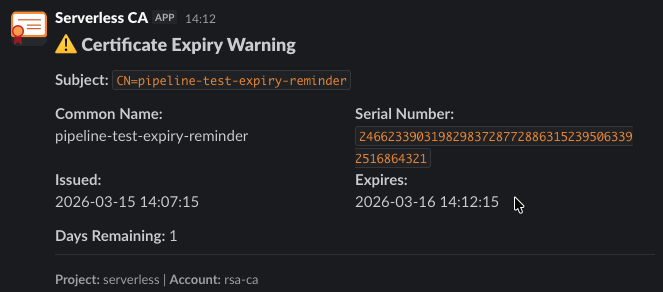
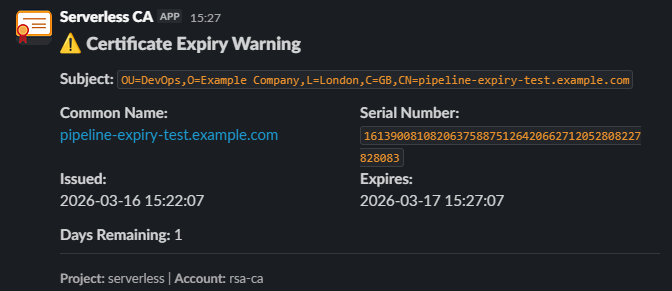
Updated dependencies and new Slack images (#556)

diff --git a/tests/test_expiry_reminders.py b/tests/test_expiry_reminders.py
@@ -27,7 +27,7 @@ structlog.configure(
 
 log = structlog.get_logger()
 
-COMMON_NAME = "pipeline-test-expiry-reminder"
+COMMON_NAME = "pipeline-expiry-test.example.com"
 CSR_FILE = f"{COMMON_NAME}.csr"
 
 
@@ -120,6 +120,10 @@ def _append_to_tls_json(bucket_name, kms_arn):
     updated_tls_json.append(
         {
             "common_name": COMMON_NAME,
+            "country": "GB",
+            "locality": "London",
+            "organization": "Example Company",
+            "organizational_unit": "DevOps",
             "lifetime": 1,
             "csr_file": CSR_FILE,
         }
@@ -164,6 +168,10 @@ def test_expiry_reminder_sent_and_not_duplicated():
         tls_function_name = get_lambda_name("-tls")
         json_data = {
             "common_name": COMMON_NAME,
+            "country": "GB",
+            "locality": "London",
+            "organization": "Example Company",
+            "organizational_unit": "DevOps",
             "lifetime": 1,
             "csr_file": CSR_FILE,
             "force_issue": True,

diff --git a/docs/client-certificates.md b/docs/client-certificates.md
@@ -34,6 +34,22 @@ chmod 600 ~/certs/client-cert-key.pem
 * Certificate, CA bundle and private key should be written to e.g. `/certs` with locked-down folder permissions 
 * They can then be mounted into the application container
 
+## Distinguished Name Settings
+
+Distinguished name details can be set using JSON keys when calling the Lambda function, e.g. 
+```json
+{
+  "common_name": "test-client-cert",
+  "country": "GB",
+  "locality": "London",
+  "organization": "Example Company",
+  "organizational_unit": "DevOps",
+  "lifetime": 90,
+  "csr_file": "client-cert-request.csr"
+}
+```
+A full list of supported inputs is provided in the [Lambda submodule documentation](https://github.com/serverless-ca/terraform-aws-ca/blob/main/modules/terraform-aws-ca-lambda/README.MD).
+
 ## Extended Key Usages
 
 There are two methods of specifying Extended Key Usage extensions:
